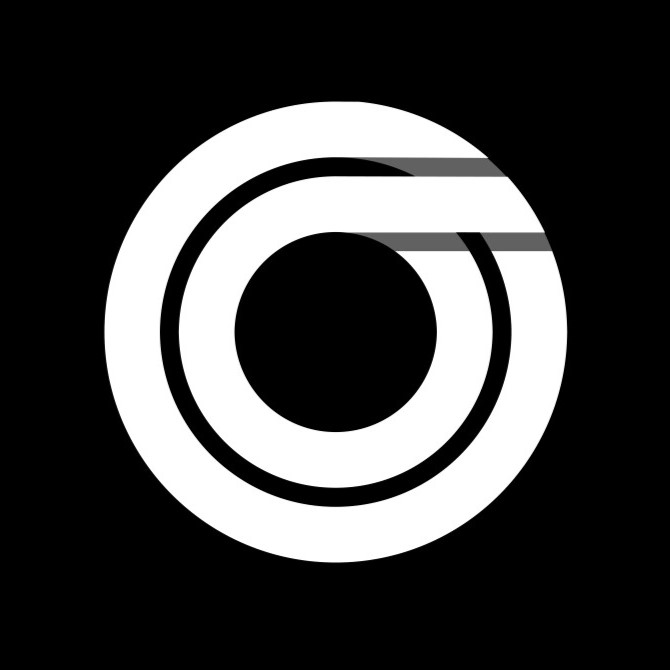
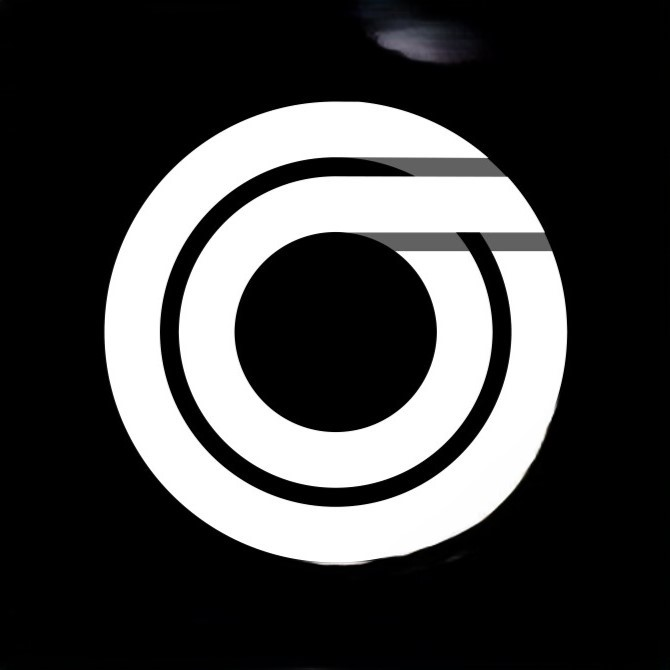
updated

diff --git a/src/constants/index.js b/src/constants/index.js
@@ -12,7 +12,7 @@ function Resume() {
 export default Resume;
 
 
-export const HERO_CONTENT = `I am Computer Engineering graduate eager to leverage my programming expertise and technical skills in the Information Technology sector. My portfolio showcases my dedication to delivering high-quality solutions, effective communication, and teamwork. I stay updated with industry trends, positioning myself to drive innovation and contribute to an organization's success.`;
+export const HERO_CONTENT = `I am Computer Engineering graduate, eager to leverage my programming expertise and technical skills in the Information Technology sector. My portfolio showcases my dedication to delivering high-quality solutions, effective communication, and teamwork. I stay updated with industry trends, positioning myself to drive innovation and contribute to an organization's success.`;
 
 export const PROJECTS = [
   {

diff --git a/src/components/Hero.jsx b/src/components/Hero.jsx
@@ -29,7 +29,7 @@ const Hero = () => {
               variants={container(0.5)}
               initial="hidden"
               animate="visible"
-              className="bg-gradient-to-r from-red-500 via-purple-300 to-blue-500 bg-clip-text text-4xl tracking-tight text-transparent"
+              className="bg-gradient-to-r from-red-500 via-purple-300 to-blue-500 bg-clip-text text-4xl tracking-tight text-transparent "
             >
               Software Engineer
             </motion.span>
@@ -37,7 +37,7 @@ const Hero = () => {
               variants={container(1)}
               initial="hidden"
               animate="visible"
-              className="my-2 max-w-xl py-6 font-normal text-justify tracking-tighter"
+              className="my-2 max-w-xl py-6 font-normal text-justify tracking-tight"
             >
               {HERO_CONTENT}
             </motion.p>

diff --git a/index.html b/index.html
@@ -2,7 +2,7 @@
 <html lang="en">
   <head>
     <meta charset="UTF-8" />
-    <link rel="icon" type="image/svg+xml" href="./src/assets/og.jpg" />
+    <link rel="icon" type="image/svg+xml" href="./src/assets/ogg.jpg"/>
     <meta name="viewport" content="width=device-width, initial-scale=1.0" />
     <title>Omkar Gaikwad</title>
   </head>
